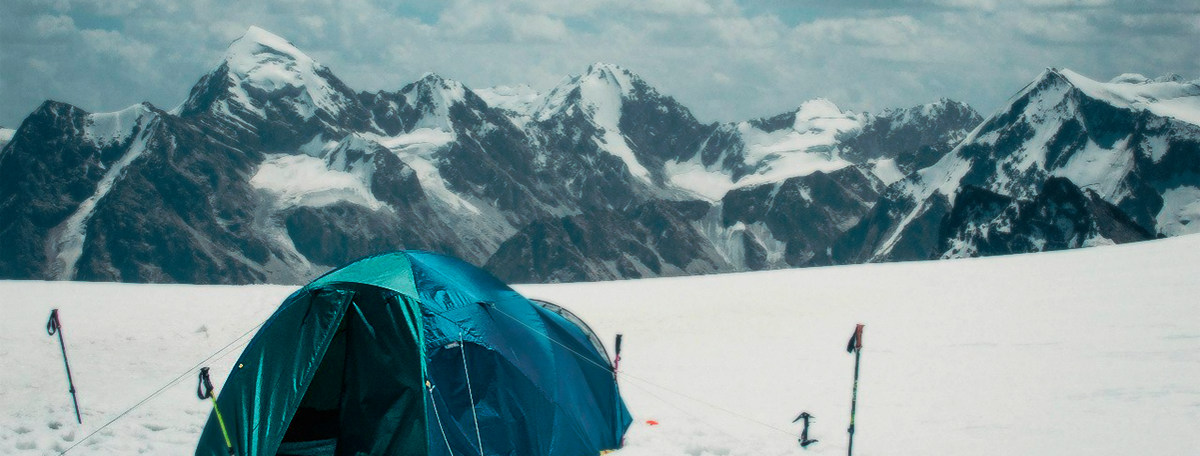
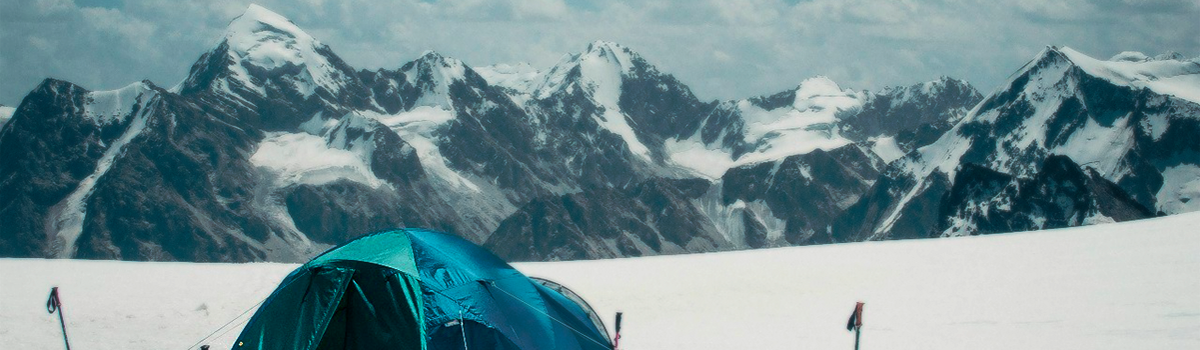
Add active users and edit design

diff --git a/page_navigation/templates/page_navigation/page.html b/page_navigation/templates/page_navigation/page.html
@@ -1,27 +1,60 @@
 {% load comments_tags %}
 <div class="panel panel-default">
   <div class="panel-body">
-  <p style="font-size:18px; color: #000" align="center"><strong>Новые материалы</strong></p><hr class="hr_red">
+  <p style="font-size:18px; color: #000" align="center"><strong>Новые материалы</strong></p>
   {% for material in materials %}
-      <img src="{{ material.owner.avatar.url }}" width="45px" height="45px" hspace="8" vspace="8" align="left" class="img-circle">
-      <a href="{{ material.owner.get_absolute_url }}" id="user_full_name">
-          {{ material.owner.get_full_name }}
-      </a> - {{ material.date_creation|date:"d F Y" }}
+      {% if material.rank == 0 %}
+          <img src="{{ material.type_hike.image.url }}" style="border: 1px solid #dddddd;" width="47px" height="47px" hspace="8" vspace="8" align="left" class="img-circle">
+      {% else %}
+          <a href="{{ material.owner.get_absolute_url }}" id="user_full_name">
+            <img src="{{ material.owner.avatar.url }}" width="45px" height="45px" hspace="8" vspace="8" align="left" class="img-circle">
+          </a>
+      {% endif %}
+      <a href="/{{ material.get_rank_material }}/">
+          {{ material.get_template_material }}
+      </a> - {{ material.date_creation|date:"d M. Y" }}
       <br>
       <a href="/materials/{{ material.id }}">
           <p>- {{ material.short_desc|truncatechars:75 }} - {{ material.title }}<hr class="hr_sm"></p>
       </a>
 
   {% endfor %}
-  <p style="font-size:18px; color: #000" align="center"><strong>Что обсуждают</strong></p><hr class="hr_red">
+  <p style="font-size:18px; color: #000" align="center"><strong>Что обсуждают</strong></p>
   {% for conversation in conversation %}
     <a href="{{ conversation.get_absolute_url }}/"><h5>- {{ conversation.get_template_material }} {{ conversation.short_desc|truncatechars:60 }} {{ conversation.title }}</a></h5>
   {% endfor %}
   <p style="font-size:18px; color: #000" align="center"><strong>Не пропустите</strong></p>
   {% for party in partys %}
-    <a href="{{ party.get_absolute_url }}/"><h5>- {{ party.title }}</a></h5>
+    <div class="thumbnail">
+        <div style="background-image:url({{ party.image.url }}); background-size: cover;  padding-top:20px; height:180px; width:100%">
+            <div align="center" class="background_text">
+                <a href="{{ party.get_absolute_url }}/"><h3>- {{ party.title }}</h3></a>
+            </div>
+        </div>
+        <div class="caption">
+            <div align="center">
+{#                <h3><small>Начало - {{ party.date_start|date:"d.m.Y, G:i" }}</small></h3>#}
+            </div>
+            <div align="center">
+                <a href="/party/{{ party.id }}"><button type="button" class="btn btn-info btn-sm">Подробнее/Обсудить</button></a>
+            </div>
+        </div>
+    </div>
+
   {% endfor %}
 </div>
 </div>
 
+<div class="panel panel-default">
+  <div class="panel-body">
+      <p style="font-size:18px; color: #000" align="center"><strong>Активные пользователи</strong></p>
+      {% for active_user in active_users %}
+          <a href="{{ active_user.get_absolute_url }}" id="user_full_name">
+            <img src="{{ active_user.avatar.url }}" width="74px" height="74px" hspace="4" vspace="4" align="left" class="img-rounded">
+          </a>
+      {% endfor %}
+  </div>
+</div>
+
 {% include "page_navigation/sponsors.html" %}
+

diff --git a/materials/templates/materials/article/material_new.html b/materials/templates/materials/article/material_new.html
@@ -6,8 +6,8 @@
 
 {% block main %}
 
-<div class="col-md-1"></div>
-<div class="col-md-10 left">
+<div class="col-md-2"></div>
+<div class="col-md-8 left">
 	<div class="panel panel-default">
 		<div class="panel-body">
 			<div class="materials">
@@ -39,7 +39,7 @@
 					{{ form.text }}
 					<hr style="margin-top: 1px; margin-bottom: 14px;">
 					<div class="row"><br>
-						<div class="col-md-6">
+						<div class="col-md-12">
 						<p><label for="id_category">Теги:</label><br> 
 						{{ form.category.errors }}  
 						<select id="id_category" multiple="multiple" name="category" class="tokenize-sample">
@@ -49,13 +49,13 @@
 						</select>
 						</p>
 						</div>
-						<div class="col-md-6">
+						<div class="col-md-12">
 							<label>Доступные теги:</label> 
 							{% for category in categorys %}
 							    {{ category.category }}, 
 							{% endfor %}
 						</div>
-					</div>
+					</div><br>
 					<button type="submit" class="btn btn-success">Сохранить изменения</button>
 					<a href="/blog/{{ blog.id }}"><button class="btn btn-default"> Отмена</button></a>
 				</form>

diff --git a/materials/templates/materials/report/material_list.html b/materials/templates/materials/report/material_list.html
@@ -20,7 +20,7 @@
 	}
 </style>
 
-<div class="col-md-9 left">
+<div class="col-md-8 left">
 <div class="panel panel-default">
 <div class="panel-body">
 	<div class="col-md-12" align="center">
@@ -111,7 +111,7 @@
 </div>
 </div>
 
-<div class="col-md-3 right">
+<div class="col-md-4 right">
 	<!-- Тег, который в зависимости от url возвращает разные шаблоны -->
 	<!-- Допустим, в одном случае он возвратит кусочек мероприятий -->
 	<!-- Ну а в другом вообще ничего -->

diff --git a/materials/templates/materials/article/material_list.html b/materials/templates/materials/article/material_list.html
@@ -18,7 +18,7 @@
 	}
 </style>
 
-<div class="col-md-9 left">
+<div class="col-md-8 left">
 <div class="panel panel-default">
 <div class="panel-body">
 	<div class="col-md-12" align="center">
@@ -63,7 +63,7 @@
 </div>
 </div>
 
-<div class="col-md-3 right">
+<div class="col-md-4 right">
 	<!-- Тег, который в зависимости от url возвращает разные шаблоны -->
 	<!-- Допустим, в одном случае он возвратит кусочек мероприятий -->
 	<!-- Ну а в другом вообще ничего -->

diff --git a/force_blog/templates/force_blog/blogpost_detail.html b/force_blog/templates/force_blog/blogpost_detail.html
@@ -10,7 +10,7 @@
 	.post-header-line { border-bottom:1px solid #DDD;padding:10px 0px 10px 25px;font-size: 12px; }
 </style>
 
-<div class="col-md-9 left">
+<div class="col-md-8 left">
 <div class="panel panel-default">
 <div class="panel-body">
 		<div class="col-md-12" align="center">
@@ -60,7 +60,7 @@
 	</div>
 	</div>
 
-	<div class="col-md-3">
+	<div class="col-md-4">
 	    {% load page_navigation %}
 	    {% page_navigation request %}
 	</div>

diff --git a/materials/templates/materials/article/material_detail.html b/materials/templates/materials/article/material_detail.html
@@ -21,7 +21,7 @@
 	}
 </style>
 
-<div class="col-md-9 left">
+<div class="col-md-8 left">
 <div class="panel panel-default">
 <div class="panel-body">
 <div id="material">
@@ -118,7 +118,7 @@
 </div>
 </div>
 
-<div class="col-md-3 right">
+<div class="col-md-4 right">
     {% load page_navigation %}
     {% page_navigation request %}
 </div>

diff --git a/materials/templates/materials/report/material_detail.html b/materials/templates/materials/report/material_detail.html
@@ -22,7 +22,7 @@
 	}
 </style>
 
-<div class="col-md-9 left">
+<div class="col-md-8 left">
 <div class="panel panel-default">
 <div class="panel-body">
 <div id="material">
@@ -124,7 +124,7 @@
 </div>
 </div>
 
-<div class="col-md-3 right">
+<div class="col-md-4 right">
     {% load page_navigation %}
     {% page_navigation request %}
 </div>

diff --git a/romantic/static/css/style.css b/romantic/static/css/style.css
@@ -675,7 +675,7 @@ h3 {
 
 #events-banner{
 	position: relative;
-	height: 334px;
+	height: 350px;
 }
 
 #events-view-buttons > div{

diff --git a/page_navigation/templatetags/page_navigation.py b/page_navigation/templatetags/page_navigation.py
@@ -7,6 +7,7 @@ from django.shortcuts import render_to_response, redirect, render
 from django.template import Context
 from party.models import Party
 from materials.models import Material
+from profile.models import CustomUser
 from force_blog.models import BlogPost
 from power_comments.models import PowerComment
 
@@ -17,6 +18,20 @@ def page_navigation(request):
     partys = Party.objects.exclude(state=0)[:5]
     materials = Material.objects.exclude(state=0)[:5]
 
+    comments_active_users = PowerComment.objects.values('owner').distinct()
+    comments_active_users_count = comments_active_users.count() - 8
+    try:
+        comments_active_users = comments_active_users[comments_active_users_count:]
+    except AssertionError:
+        pass
+
+    active_users = []
+    for x in comments_active_users:
+        active_user = CustomUser.objects.get(id=x['owner'])
+        active_users.append(active_user)
+
+        if len(active_users) >= 8:
+            break
 
     comments = PowerComment.objects.values('app').distinct()
     comments_count = comments.count() - 5
@@ -24,10 +39,6 @@ def page_navigation(request):
         comments = comments[comments_count:]
     except AssertionError:
         pass
-
-    # comments = PowerComment.objects.order_by().values('app').distinct()
-
-    # comments = comments.order_by('date_creation')
 
     conversation = []
     for comment in comments:
@@ -56,6 +67,7 @@ def page_navigation(request):
     url = template.loader.get_template("page_navigation/page.html")
     data = {'materials': materials, 
             'partys': partys,
-            'conversation': conversation}
+            'conversation': conversation,
+            'active_users': active_users}
 
     return url.render(Context(data))

diff --git a/materials/models.py b/materials/models.py
@@ -108,16 +108,30 @@ class Material(models.Model):
 
     def get_template_material(self):
         if self.rank == 0:
-            name_material = "Отчет:"
+            name_material = "Отчет похода"
         if self.rank == 1:
-            name_material = "Творчество:"
+            name_material = "Творчество"
         if self.rank == 2:
-            name_material = "Паспорт:"
+            name_material = "Паспорт препятствия"
         if self.rank == 3:
-            name_material = "Документ:"
+            name_material = "Документ"
         if self.rank == 4:
-            name_material = "Статья:"
+            name_material = "Статья"
         return name_material
+
+    def get_rank_material(self):
+        if self.rank == 0:
+            name_material = "report"
+        if self.rank == 1:
+            name_material = "art"
+        if self.rank == 2:
+            name_material = "passport"
+        if self.rank == 3:
+            name_material = "doc"
+        if self.rank == 4:
+            name_material = "article"
+        return name_material
+
 
     def __unicode__(self):
         return u'%s, %s, %s, %s, %s, %s' % (self.title,

diff --git a/banner/context_processor.py b/banner/context_processor.py
@@ -16,9 +16,9 @@ def contex_banner(request):
         profile = ""
 
     if request.path == '/passport/':
-        banner = 'passport.png'
+        banner = 'pano.jpg'
     else:
-        banner = 'general.png'
+        banner = 'general.jpg'
 
     print banner
     return {'banner': banner, 'profile':profile, 'mode_site': settings.DEBUG}
